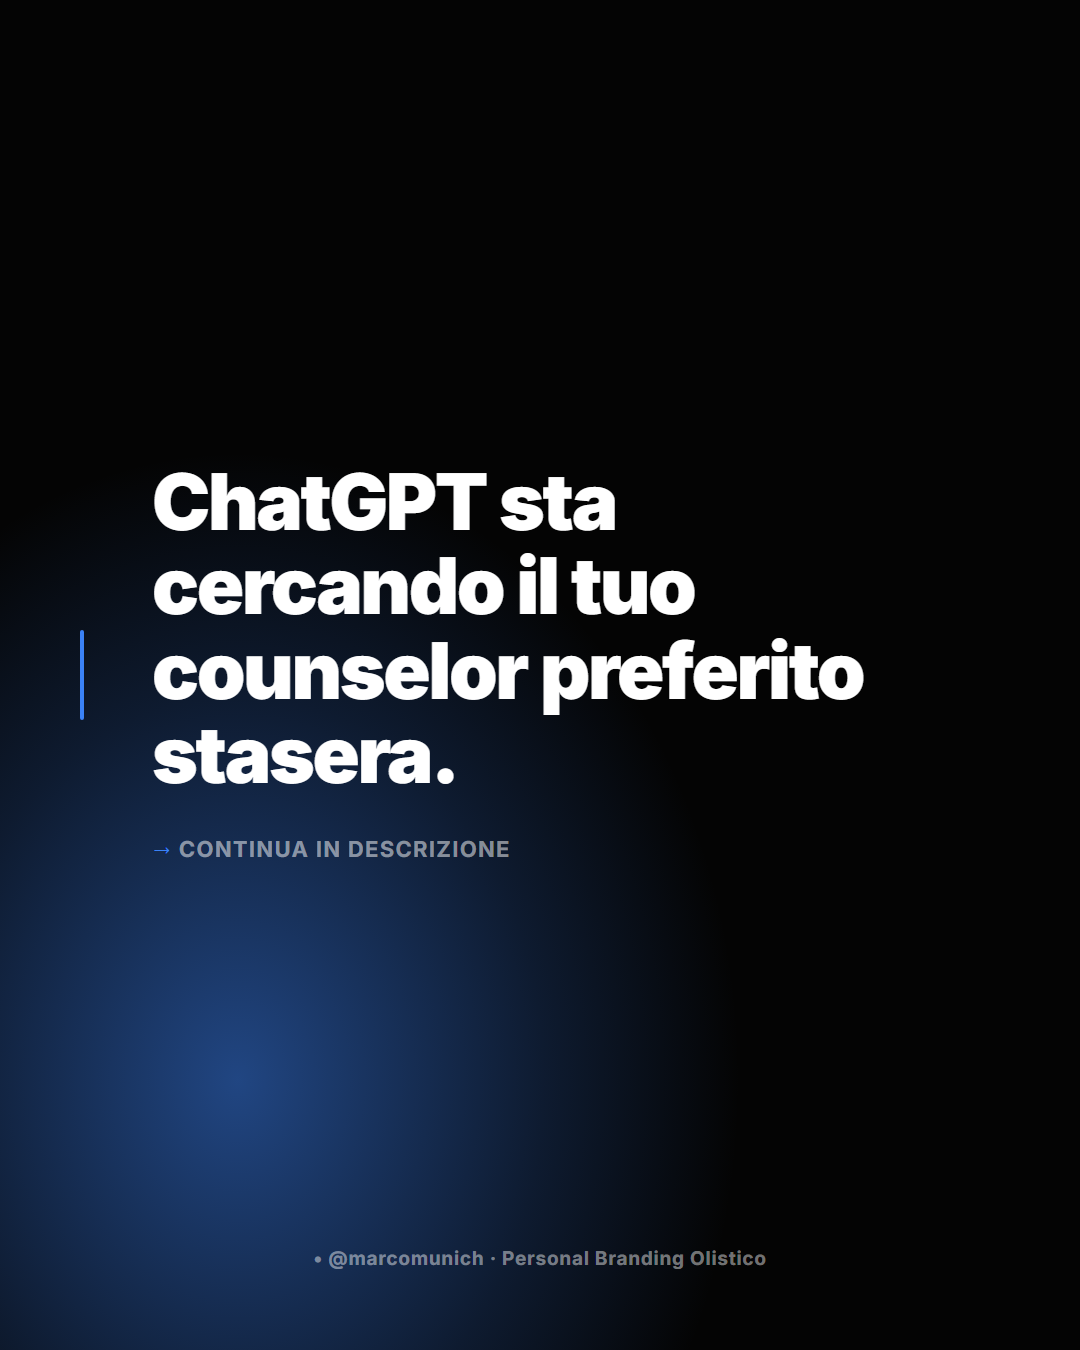
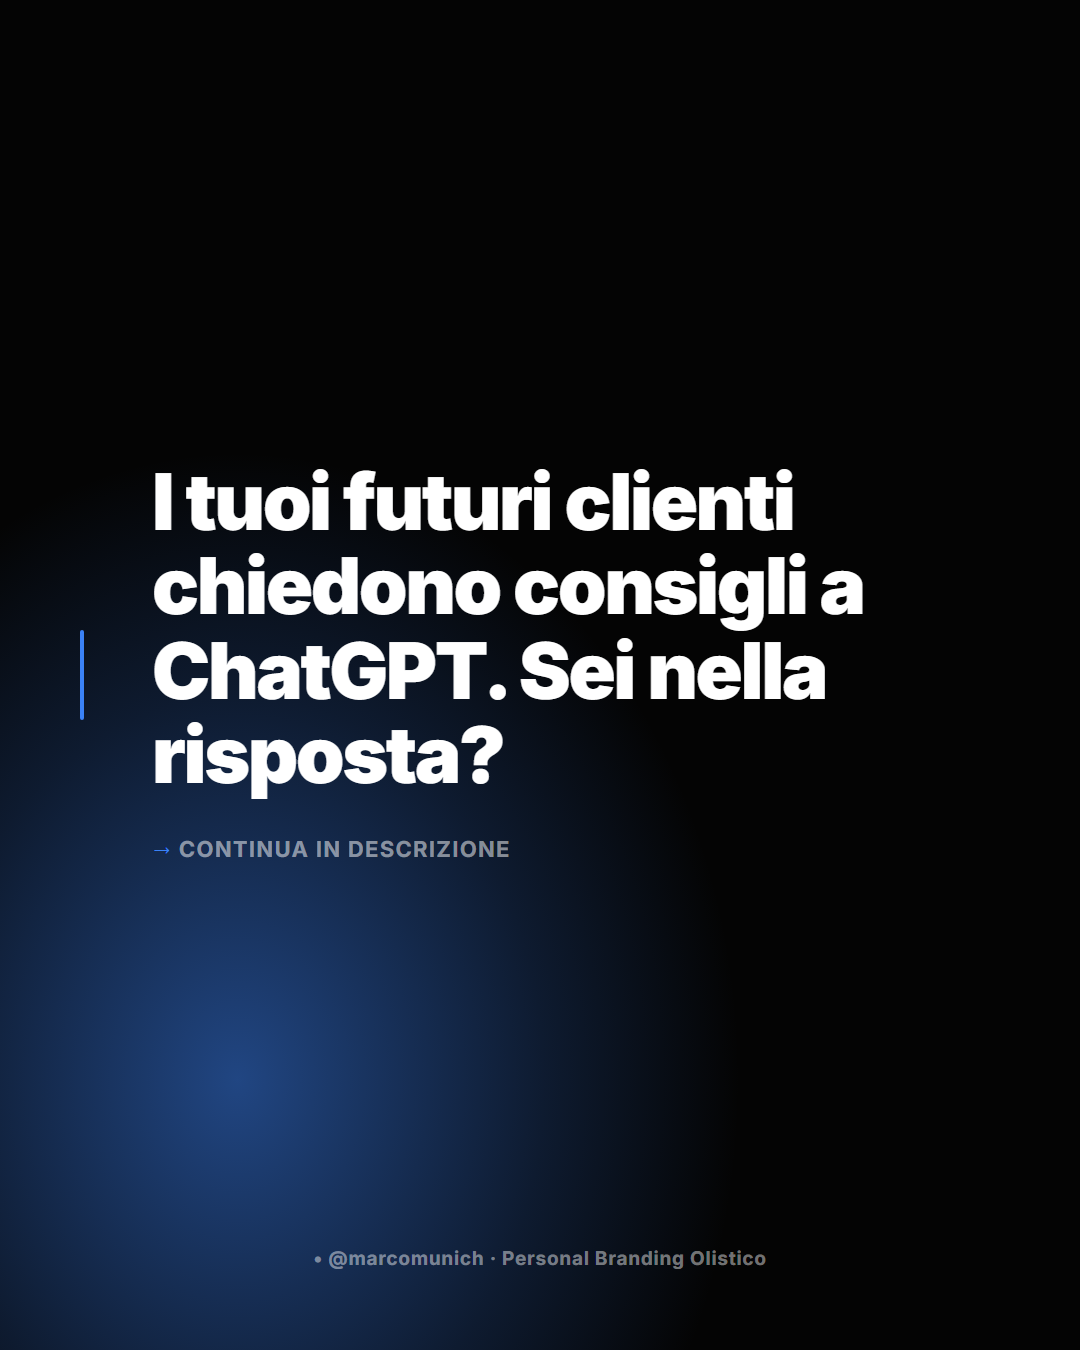
fix: update P08 hook — ChatGPT post per counselor audience
Old: "ChatGPT sta cercando il tuo counselor preferito stasera" (POV cliente)
New: "I tuoi futuri clienti chiedono consigli a ChatGPT. Sei nella risposta?"
(POV counselor come protagonista)

Changed region(s): [[0.1528, 0.3422, 0.7944, 0.5911]]

diff --git a/contenuti-social/post-singoli.md b/contenuti-social/post-singoli.md
@@ -90,8 +90,8 @@ Il profilo diventa così un contratto implicito con chi arriverà in studio. Chi
 
 La counselor con cui lavoravo ha accettato di ridurre la distanza nel corso di qualche mese. Il flusso di richieste è calato per due mesi. I clienti arrivati dopo sapevano cosa aspettarsi, e la quarta sessione non è più stata un momento di rottura.
 
-### POST 8 — "ChatGPT sta cercando il tuo counselor preferito stasera."
-- **Overlay:** ChatGPT sta cercando il tuo counselor preferito stasera.
+### POST 8 — "I tuoi futuri clienti chiedono consigli a ChatGPT. Sei nella risposta?"
+- **Overlay:** I tuoi futuri clienti chiedono consigli a ChatGPT. Sei nella risposta?
 - **Immagine:** Photographic vertical di uno schermo con finestra di chat AI aperta, domanda di ricerca visibile sfocata, mano che digita, luce bluastra dello schermo, stanza buia sullo sfondo, mood notturno e contemporaneo, 1080×1350.
 - **Caption:**
 Come fa ChatGPT a conoscere il nome del counselor giusto per te stasera? La domanda sembra tecnica e in realtà riguarda il modo in cui il tuo lavoro verrà trovato dalle persone nei prossimi cinque anni. La settimana scorsa una cliente mi ha mandato lo screenshot di una conversazione con il modello. Aveva chiesto di suggerirle un counselor a Bologna che lavorasse sull'ansia da prestazione, e la risposta conteneva tre nomi precisi con citazioni prese da articoli che quei professionisti avevano pubblicato sui loro siti. Mi ha scritto: "Io quei tre li conosco. Come fa ChatGPT a sapere che esistono?"